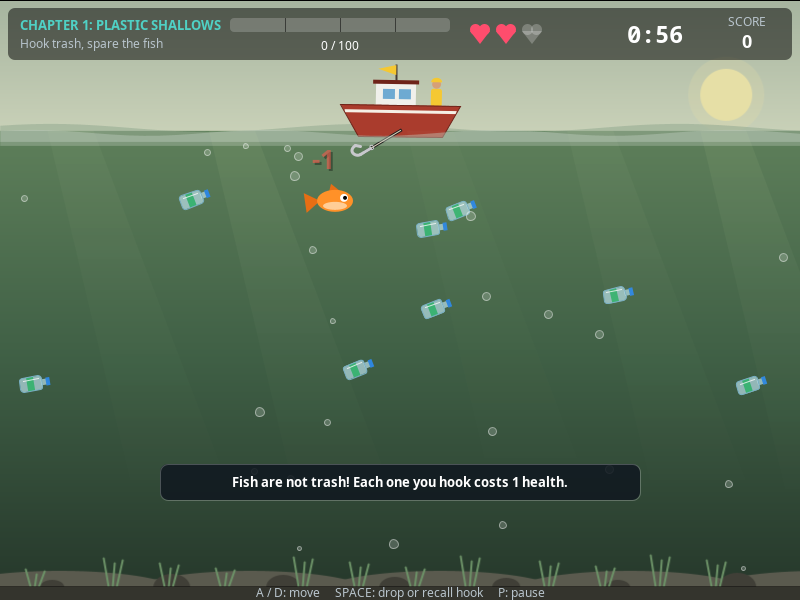
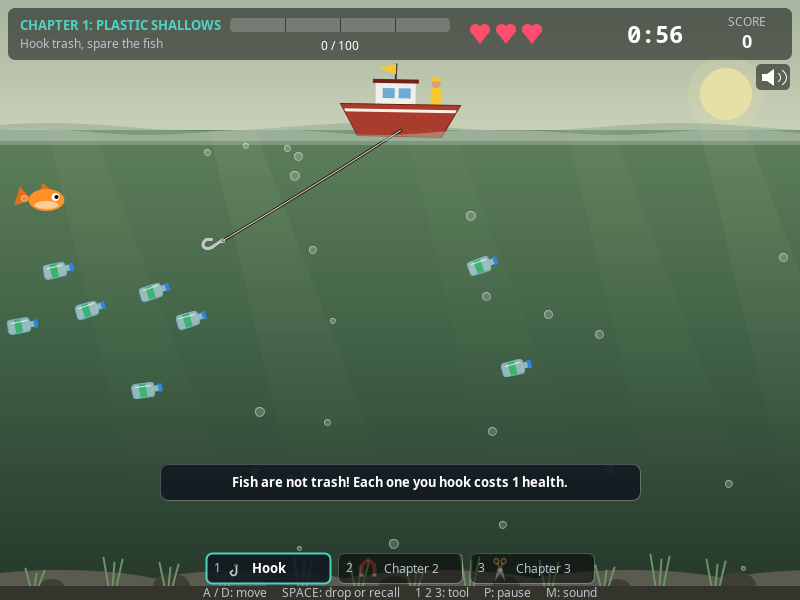
docs: describe the tools and refresh screenshots

diff --git a/README.md b/README.md
@@ -4,12 +4,14 @@ Hook the trash. Spare the fish. Save the reef.
 
 A 2D story game in Java Swing. You play Nico Abella, the newest member of Captain
 Dolor's clean-up crew at Bantay Reef. Each chapter has a quota of trash to collect
-before time or health runs out. Clear all three and the reef comes back to life.
+before time or health runs out, and each kind of trash needs its own tool. Clear all
+three chapters and the reef comes back to life.
 
 | | |
 |---|---|
 | ![Main menu](docs/screenshots/menu.png) | ![A story page](docs/screenshots/story.png) |
-| ![Chapter 1](docs/screenshots/chapter1.png) | ![Chapter 3](docs/screenshots/chapter3.png) |
+| ![Chapter 1](docs/screenshots/chapter1.png) | ![Chapter 2](docs/screenshots/chapter2.png) |
+| ![Chapter 3](docs/screenshots/chapter3.png) | ![The ending](docs/screenshots/ending.png) |
 
 Team project for CIS 2103 (Object Oriented Programming), University of San Carlos.
 
@@ -42,6 +44,8 @@ java -cp out Main
 |---|---|
 | `A` / `D` or arrow keys | Move the boat (only while the hook is swinging) |
 | `Space` | Drop the hook. Press again while it is going out to pull it back |
+| `1` `2` `3` | Put the Hook, Magnet or Net Cutter on the line (only while it swings) |
+| `Q` / `E` | Previous / next tool |
 | `P` or `Esc` | Pause (resume, sound on or off, restart the chapter, or quit to the menu) |
 | `M` | Sound on or off, on any screen |
 | `Enter` | Confirm, next story page |
@@ -50,11 +54,23 @@ java -cp out Main
 
 ## How to play
 
-| Chapter | Trash to look for | Quota | Time | Health |
+| Chapter | Trash to look for | New tool | Quota | Time | Health |
+|---|---|---|---|---|---|
+| 1. Plastic Shallows | bottles (10 points) | Hook | 100 | 65 s | 3 |
+| 2. Old Pier Wreck | cans (20), bottles | Magnet | 200 | 90 s | 4 |
+| 3. Ghost Net Deep | fishing nets (50), cans, bottles | Net Cutter | 350 | 105 s | 5 |
+
+What each tool does:
+
+| Tool | Bottle | Can | Net | Fish |
 |---|---|---|---|---|
-| 1. Plastic Shallows | bottles (10 points) | 100 | 65 s | 3 |
-| 2. Old Pier Wreck | cans (20), bottles | 200 | 90 s | 4 |
-| 3. Ghost Net Deep | fishing nets (50), cans, bottles | 350 | 105 s | 5 |
+| Hook | catches | slips off | slips off | hooks it (costs health) |
+| Magnet | passes through | catches | passes through | passes through |
+| Net Cutter | slips off | slips off | catches | hooks it (costs health) |
+
+- A chapter starts with its new tool on the line. Change tools only while the line is
+  swinging, and at most once a second.
+- When trash slips off the wrong tool, the throw is wasted but no health is lost.
 
 - Hooking a fish costs 1 health and the fish swims away. Pufferfish and barracuda
   (chapter 3) cost 2. A pufferfish swells when the hook is near; a barracuda
@@ -79,7 +95,11 @@ FISH2TRASH/
 │   │   ├── ObjectKind       enum: builds each object, lookup key for painters
 │   │   ├── ObjectView, HookSensor   small read-only interfaces
 │   │   ├── Player, Boat, Hook, TimeLimit
-│   │   ├── Equipment, PlainHook, Loadout, CatchOutcome, CatchResolver
+│   │   ├── Equipment        abstract tool on the line
+│   │   │   └── PlainHook, Magnet, NetCutter
+│   │   ├── EquipmentType    enum: builds each tool, knows its chapter
+│   │   ├── Loadout, EquipmentLockedException   the crew's tools and the swap rules
+│   │   ├── CatchOutcome, CatchResolver
 │   │   └── Level, ChapterData, SpawnRule, TutorialPrompt   the chapters as data
 │   ├── game/                the rules
 │   │   ├── GameManager      one chapter attempt: collisions, quota, win/lose
@@ -95,7 +115,7 @@ FISH2TRASH/
 │   │   ├── MainMenu, HowToScreen, StoryScreen, GameScreen, PauseOverlay,
 │   │   │   ChapterClearScreen, GameOverScreen, VictoryScreen
 │   │   └── render/          SceneRenderer, HudPainter, EffectsSystem, backgrounds and
-│   │                        water, one painter per object kind
+│   │                        water, one painter per object kind and per tool
 │   └── util/
 │       ├── GameConstants    every tuning number in one place
 │       ├── StoryText        every line of text the player reads
@@ -138,10 +158,12 @@ A class diagram is in [docs/class-diagram.md](docs/class-diagram.md).
 | Concept | Where |
 |---|---|
 | Encapsulation | Every field is private. `Player` only changes through `addPoints()` and `loseHealth()`, which enforce the rules. Lists are handed out read-only. |
-| Inheritance | `OceanObject` → `OceanTrash` → `PlasticBottle`, `Can`, `FishingNet`, and `OceanObject` → `Fish` → `SmallFish`, `BigFish`, `Pufferfish`, `Barracuda`. `Equipment` → `PlainHook`. |
-| Abstraction | `OceanObject`, `OceanTrash`, `Fish` and `Equipment` are abstract. `GameView`, `ObjectView`, `HookSensor`, `Screen`, `GameListener`, `CatchResolver`, `ObjectPainter` and `AudioPlayer` are interfaces that hide what is behind them. |
+| Inheritance | `OceanObject` → `OceanTrash` → `PlasticBottle`, `Can`, `FishingNet`, and `OceanObject` → `Fish` → `SmallFish`, `BigFish`, `Pufferfish`, `Barracuda`. `Equipment` → `PlainHook`, `Magnet`, `NetCutter`. |
+| Abstraction | `OceanObject`, `OceanTrash`, `Fish` and `Equipment` are abstract. `GameView`, `ObjectView`, `HookSensor`, `Screen`, `GameListener`, `CatchResolver`, `ObjectPainter`, `ToolPainter` and `AudioPlayer` are interfaces that hide what is behind them. |
 | Polymorphism | `object.onCaught(player, hook)`, `object.move(dt)` and `object.sense(hook)` (a pufferfish weaves and swells, a barracuda charges), `tool.attempt(object)`, `outcome.resolve(...)`, `screen.paint(g)`, `painter.paint(...)`: one call, different behaviour per class. |
 | Composition | `Boat` owns its `Hook`; the `Hook` carries a `Loadout` of tools; `GameManager` owns a `Level`. |
+| Custom exception | `Loadout.select()` throws the checked `EquipmentLockedException` for a tool the crew does not have yet. `GameManager.selectTool()` catches it and turns it into a message on screen. |
+| Enums with behaviour | `ObjectKind.create()` and `EquipmentType.create()` build their own objects; `CatchOutcome.resolve()` calls the right method. No `switch` over types. |
 
 Patterns used: observer (`GameListener`), template method (`OceanObject.update`,
 `Equipment.attempt`), a state machine per screen (`ScreenManager`) and inside
@@ -163,11 +185,12 @@ no test library is needed. The script exits with an error if any check fails.
 | `ArchitectureTest` | The design rules above, by reading the source files |
 | `PlayerTest`, `OceanObjectTest`, `BoatHookTest` | Health and score rules, movement, bouncing, collision, the hook's swing, launch and recall |
 | `ModelCatchTest`, `DangerousFishTest` | What each kind of object does when hooked; pufferfish and barracuda behaviour |
-| `EquipmentTest` | What the hook does to each kind of object, and how a slip plays out |
+| `EquipmentMatrixTest` | Every cell of the tool table above: three tools against seven kinds of object |
+| `EquipmentTest`, `LoadoutTest` | How a slip plays out; which tools each chapter has; the swap rules (locked tool, wait, not while the line is out) |
 | `GameEventTest`, `ChapterFlowTest` | The events the game announces; winning, the frozen clock, and both ways to lose |
 | `LevelSpawnTest` | Spawn tables: timing, counts, distance from the hook, and enough trash to finish |
 | `SessionTest` | Moving on after a clear, retrying after a fail |
-| `BalanceBotTest` | A simple computer player must be able to win every chapter at least half the time |
+| `BalanceBotTest` | A simple computer player, changing tools as needed, must be able to win every chapter at least half the time |
 | `StoryTextTest` | Every story page, fail message and tip fits its box |
 | `ScreenFlowTest` | Key presses lead to the right screens: menu, story, pause, fired screen, retry |
 | `SynthTest` | Each sound has the right length and pitch, starts and ends quietly, and comes out the same every time; the player stays silent without a sound device |
@@ -198,11 +221,18 @@ The tests cannot judge how the game feels or sounds. Use the checklist below for
 - [ ] At 100 points the timer stops; the chapter clears when the catch reaches the boat.
 
 **Chapter 2**
+- [ ] The story ends with a NEW GEAR page; the Magnet is on the line at the start.
 - [ ] Health 4, time 1:30. Cans are worth 20; most sit low on the right.
+- [ ] The Magnet lifts cans and goes straight through fish and bottles.
+- [ ] `1` puts the Hook on: it catches bottles, and cans slip off it (sparks, no health lost).
+- [ ] A second tool change within a second is refused. So is one while the line is out.
+- [ ] `3` shows "The Net Cutter arrives in chapter 3."
 - [ ] Big blue fish are clearly faster.
 
 **Chapter 3**
-- [ ] Health 5, time 1:45. Nets are worth 50.
+- [ ] The Net Cutter is on the line at the start. Health 5, time 1:45. Nets are worth 50.
+- [ ] Cans and bottles slip off the Net Cutter; it still hooks fish.
+- [ ] `Q` and `E` step through all three tools.
 - [ ] A pufferfish swells when the hook is near. Hooking it costs 2.
 - [ ] A barracuda flashes, then charges. Hooking it costs 2.
 - [ ] Clearing it shows the ending, then the shift report, then the menu.

diff --git a/docs/proposal-edits.md b/docs/proposal-edits.md
@@ -41,26 +41,31 @@ feature is merged, or move the feature to "Future work" if it is dropped.
 - [ ] **2.1 Advance:** failing a chapter lets the player retry that chapter; chapters
       already cleared stay cleared.
 - [ ] **Figure 1:** replace the mockup with a real screenshot. Ready-made ones are in
-      `docs/screenshots/` (`chapter1.png`, `chapter3.png`, `menu.png`, `story.png`,
+      `docs/screenshots/` (`chapter1.png`, `chapter2.png`, `chapter3.png`, `menu.png`, `story.png`,
       `ending.png`). Change the caption from "Concept mockup" to "The game in chapter 1".
 - [ ] **2.2 Objects in Water:** the first column header "Objective" should be "Category".
       Add two rows under Marine Wildlife: "Pufferfish (dangerous)" and "Barracuda (dangerous)".
 - [ ] **2.3 Levels:** rename to "Story chapters" and use this table:
 
-  | Chapter | Main trash | Quota | Time | Health | What is new |
-  |---|---|---|---|---|---|
-  | 1. Plastic Shallows | Plastic bottles | 100 | 65 s | 3 | Basic fish and trash |
-  | 2. Old Pier Wreck | Cans | 200 | 90 s | 4 | Big, fast fish |
-  | 3. Ghost Net Deep | Fishing nets | 350 | 105 s | 5 | Pufferfish and barracuda |
+  | Chapter | Main trash | Tool | Quota | Time | Health | What is new |
+  |---|---|---|---|---|---|---|
+  | 1. Plastic Shallows | Plastic bottles | Hook | 100 | 65 s | 3 | Basic fish and trash |
+  | 2. Old Pier Wreck | Cans | Magnet | 200 | 90 s | 4 | Big, fast fish |
+  | 3. Ghost Net Deep | Fishing nets | Net Cutter | 350 | 105 s | 5 | Pufferfish and barracuda |
 
 - [ ] **2.4 Scoring:** the points are right (10, 20, 50). Add: "Reaching the quota stops
       the clock; the chapter is cleared when that catch reaches the boat."
-- [ ] **2.4 Optional extras:** badges, sound effects, hints and a high-score list are
-      planned. **(later)** Move each one to a "Included extras" line when it is merged.
+- [ ] **2.4 Optional extras:** sound effects and a tool for each kind of trash are in:
+      list them as "Included extras". Badges, hints and a high-score list are planned.
+      **(later)** Move each one to the "Included extras" line when it is merged.
 - [ ] **2.5 Penalties:** "Accidentally catch a fish: -1 health" stays. Add a row:
       "Catch a pufferfish or barracuda: -2 health". Add that the fish swims away.
-- [ ] **2.5 Penalties (later):** add "Wrong tool for the trash: the trash slips off, no
-      health lost" when the tools are merged.
+- [ ] **2.5 Penalties:** add a row "Wrong tool for the trash: the trash slips off, the
+      throw is wasted, no health lost".
+- [ ] **2.1 How to Play:** add the tools. "Bottles need the Hook, cans the Magnet, nets
+      the Net Cutter. Keys 1, 2, 3 (or Q / E) change the tool while the line swings.
+      The Magnet ignores fish; the Hook and the Net Cutter do not." The full table is
+      in the README under "How to play".
 
 ## 3. Object-Oriented Design
 
@@ -68,15 +73,16 @@ feature is merged, or move the feature to "Future work" if it is dropped.
       `Player.loseHealth()`, and `Hook.launch()`, `Hook.recall()` and `Hook.update()`.
       Replace `collectTrash()`, `takeDamage()`, `swing()` and `extend()`.
 - [ ] **3.1 Inheritance:** add `SmallFish`, `BigFish`, `Pufferfish`, `Barracuda` under
-      `Fish`, and `PlainHook` under `Equipment`.
+      `Fish`, and `PlainHook`, `Magnet`, `NetCutter` under `Equipment`.
 - [ ] **3.1 Polymorphism example:** name the real call, `object.onCaught(player, hook)`,
       and add `move()` and `sense()` (a pufferfish weaves and swells, a barracuda charges).
 - [ ] **3.1 Abstraction:** add the interfaces `GameView`, `ObjectView`, `Screen` and
       `GameListener`.
 - [ ] **3.1 Other Java concepts:** remove "//double check". Replace `enum (BinType)` with
-      `enum (ObjectKind, EventType, ChapterStatus, GameState, CatchOutcome)`. Remove
-      `BinFullException`; the game has no custom exception yet **(later:** one arrives
-      with the tools and the high-score file). `ArrayList` and `HashMap` are used;
+      `enum (ObjectKind, EquipmentType, EventType, ChapterStatus, GameState, CatchOutcome)`.
+      Replace `BinFullException` with `EquipmentLockedException` (thrown when the player
+      asks for a tool the crew does not have yet). **(later:** a second one arrives with
+      the high-score file). `ArrayList` and `HashMap` are used;
       add `EnumMap`, which the game uses for lookups by enum.
 - [ ] **3.2 Main Classes, Player:** remove "and quota". The quota belongs to the chapter
       (`ChapterData`), not the player.
@@ -96,7 +102,8 @@ feature is merged, or move the feature to "Future work" if it is dropped.
       `MarketLevel`, `TyphoonLevel`).
 - [ ] **3.3 Package Layout:**
   - `model`: add `ObjectKind`, `SmallFish`, `BigFish`, `Pufferfish`, `Barracuda`,
-    `ChapterData`, `SpawnRule`, `Equipment`. Change "No JavaFX imports" to
+    `ChapterData`, `SpawnRule`, `Equipment`, `PlainHook`, `Magnet`, `NetCutter`,
+    `EquipmentType`, `Loadout`. Change "No JavaFX imports" to
     "No Swing or AWT imports".
   - `game`: remove `GameController`. Add `GameSession`, `GameEvent`, `GameListener`.
   - `ui`: the screens are `MainMenu`, `StoryScreen`, `GameScreen`, `ChapterClearScreen`,
@@ -164,9 +171,8 @@ feature is merged, or move the feature to "Future work" if it is dropped.
 
 ## Notes at the end of the document
 
-- [ ] `//add complexity; different equipment for diff types of garbage` **(later)**:
-      planned as tools (hook, magnet, net cutter). Remove the note; describe the tools
-      in 2.1 when they are merged.
+- [ ] `//add complexity; different equipment for diff types of garbage`: done, as the
+      three tools (hook, magnet, net cutter). Remove the note; describe the tools in 2.1.
 - [ ] `//story levels represent different types of waste`: done. Each chapter has its
       own main trash. Remove the note.
 - [ ] `//add lore`: done. Remove the note.
